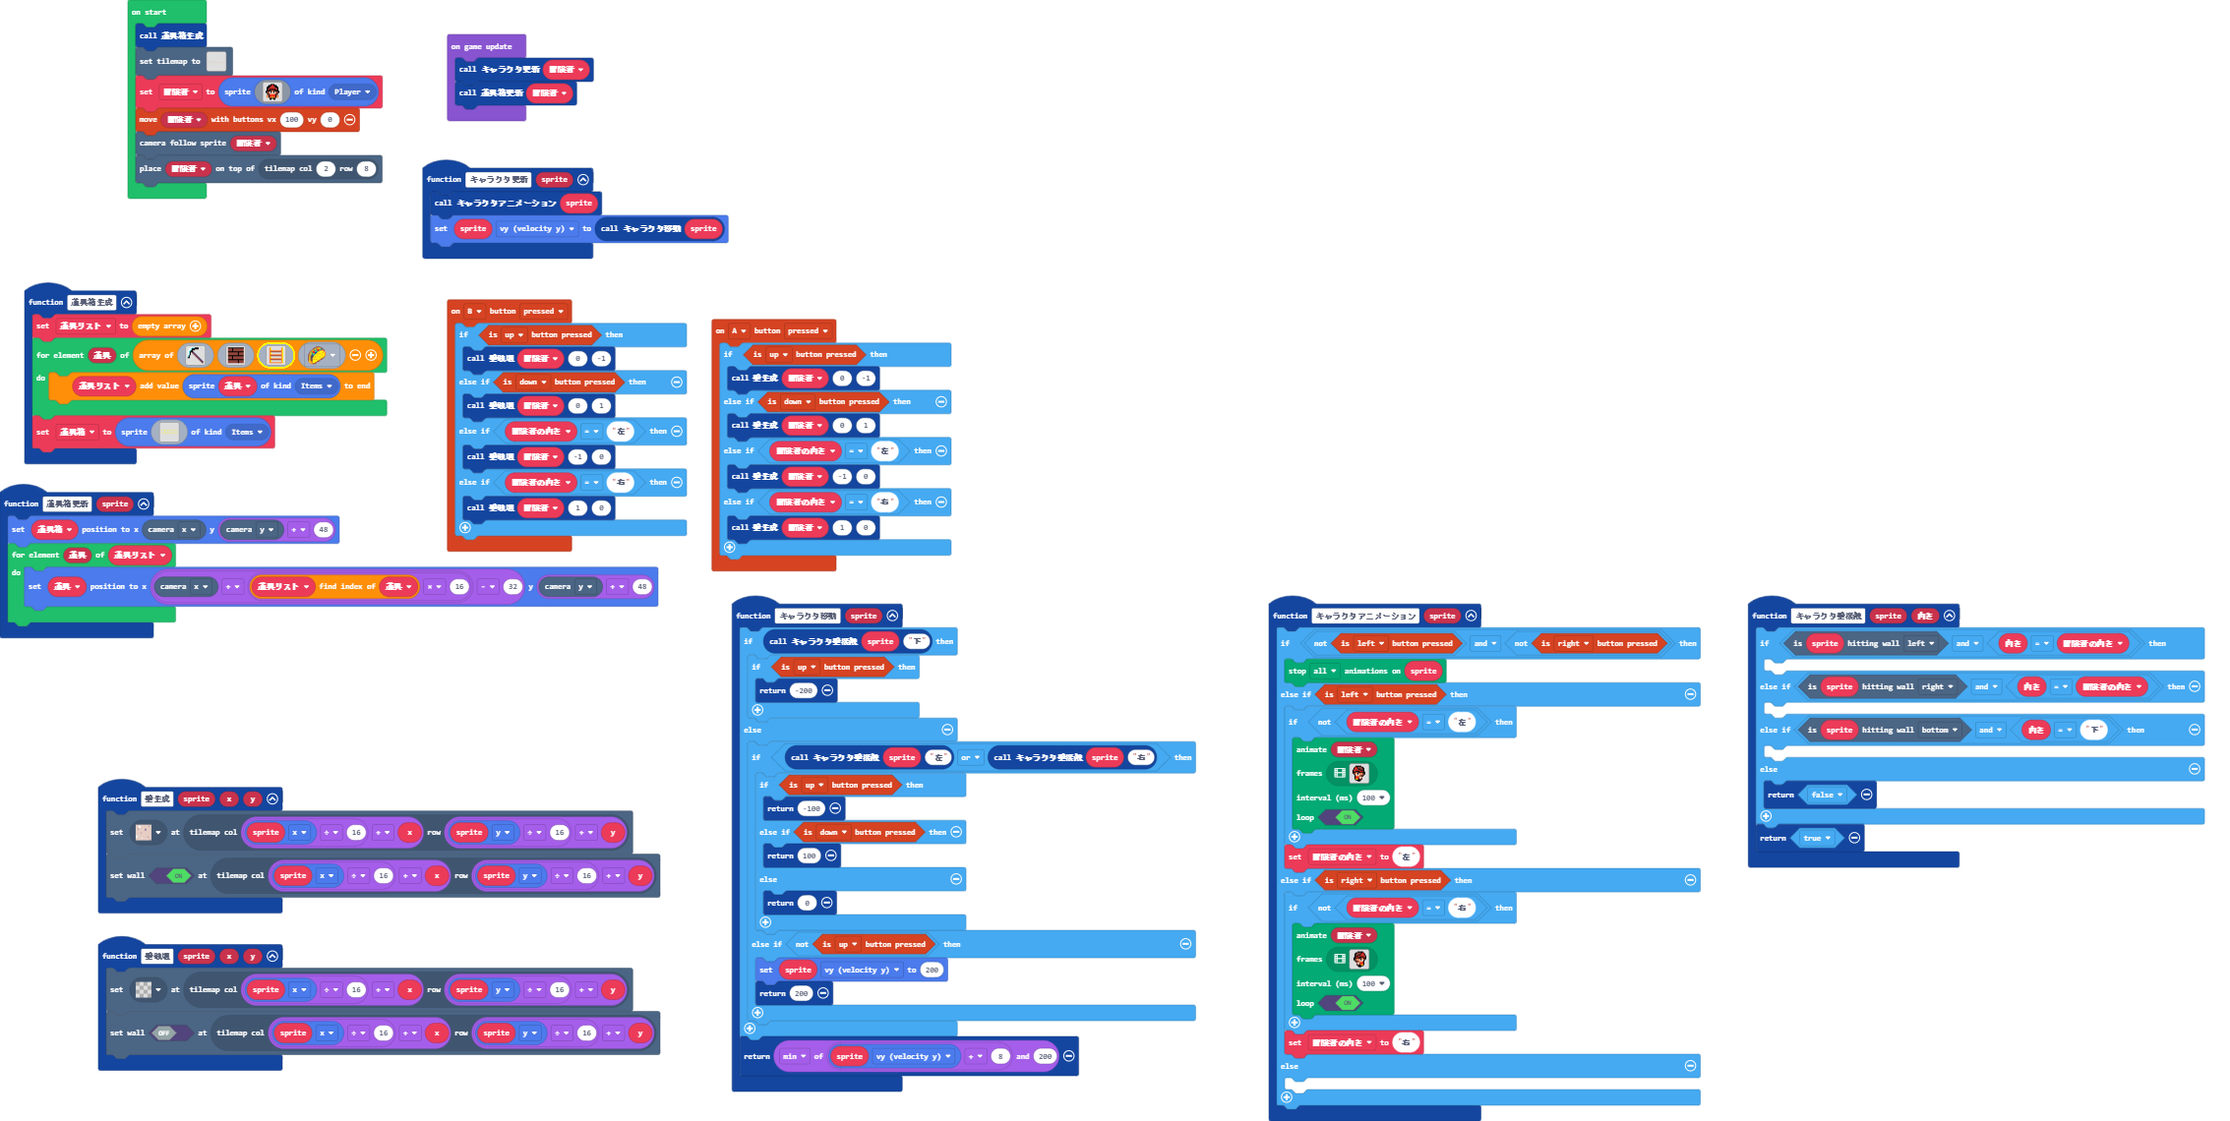
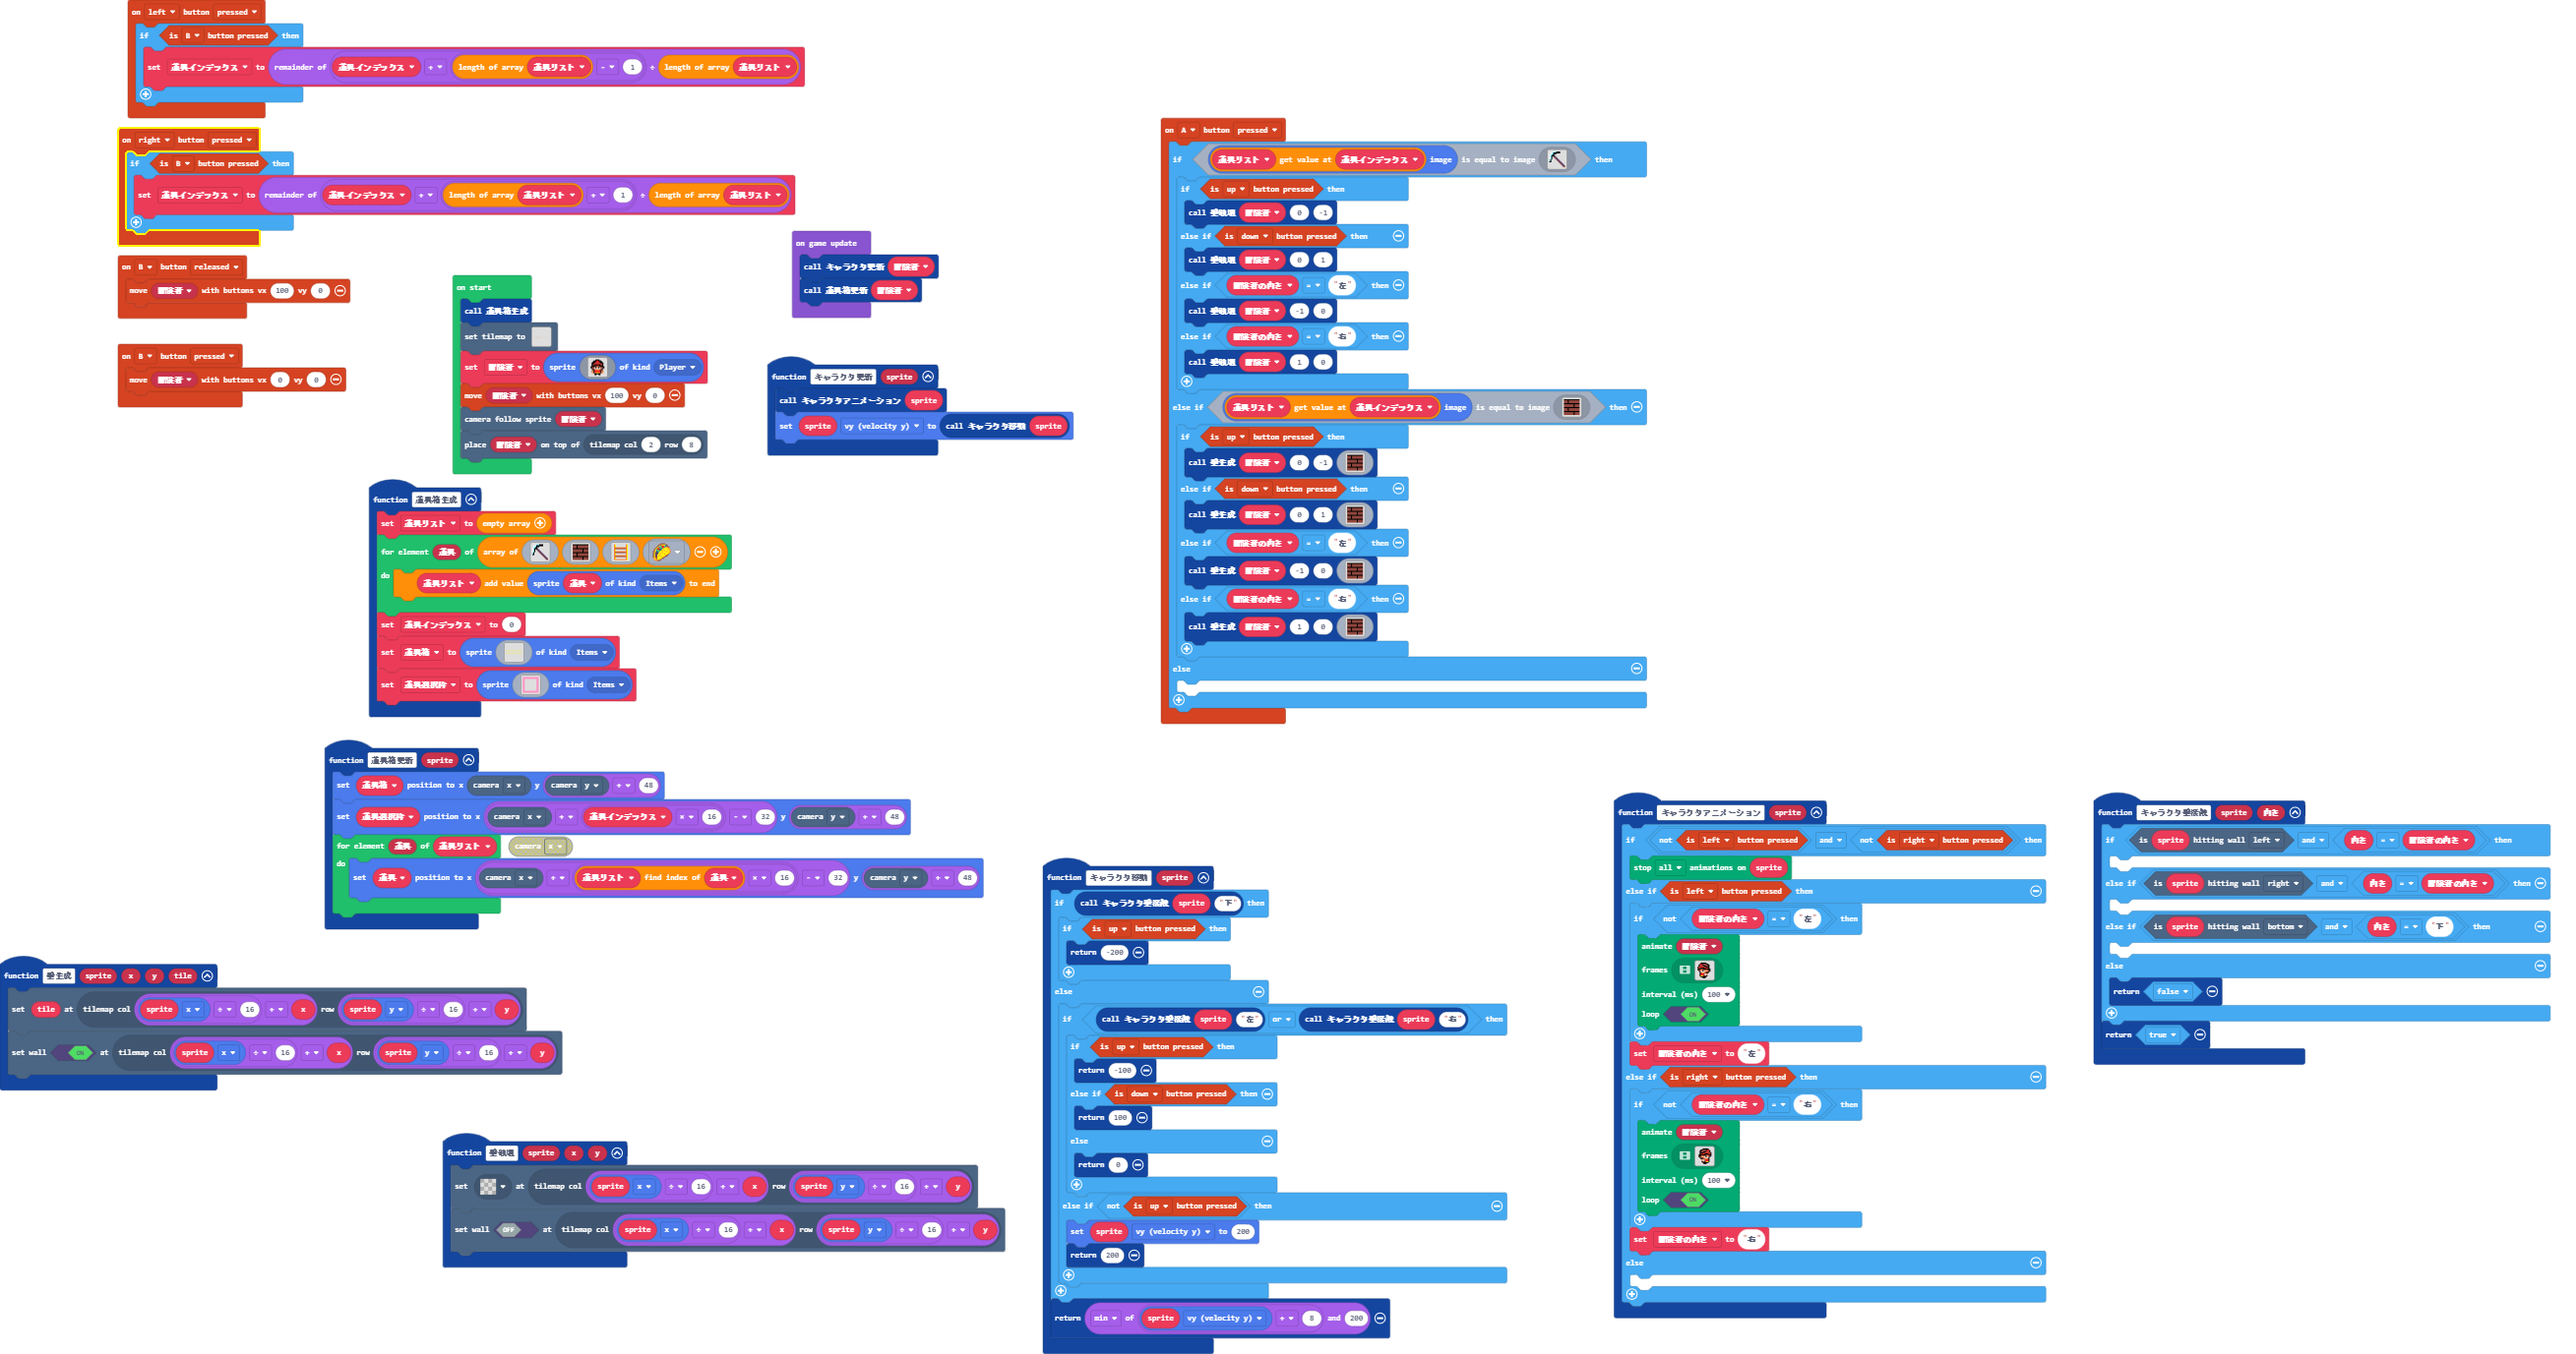
Update main.blocks, main.ts, tilemap.g.jres, tilemap.g.ts, images.g.jres, images.g.ts

diff --git a/main.ts b/main.ts
@@ -2,25 +2,36 @@ namespace SpriteKind {
     export const Items = SpriteKind.create()
 }
 controller.B.onEvent(ControllerButtonEvent.Pressed, function () {
-    if (controller.up.isPressed()) {
-        壁破壊(冒険者, 0, -1)
-    } else if (controller.down.isPressed()) {
-        壁破壊(冒険者, 0, 1)
-    } else if (冒険者の向き == "左") {
-        壁破壊(冒険者, -1, 0)
-    } else if (冒険者の向き == "右") {
-        壁破壊(冒険者, 1, 0)
-    }
+    controller.moveSprite(冒険者, 0, 0)
 })
 controller.A.onEvent(ControllerButtonEvent.Pressed, function () {
-    if (controller.up.isPressed()) {
-        壁生成(冒険者, 0, -1)
-    } else if (controller.down.isPressed()) {
-        壁生成(冒険者, 0, 1)
-    } else if (冒険者の向き == "左") {
-        壁生成(冒険者, -1, 0)
-    } else if (冒険者の向き == "右") {
-        壁生成(冒険者, 1, 0)
+    if (道具リスト[道具インデックス].image.equals(assets.image`ツルハシ`)) {
+        if (controller.up.isPressed()) {
+            壁破壊(冒険者, 0, -1)
+        } else if (controller.down.isPressed()) {
+            壁破壊(冒険者, 0, 1)
+        } else if (冒険者の向き == "左") {
+            壁破壊(冒険者, -1, 0)
+        } else if (冒険者の向き == "右") {
+            壁破壊(冒険者, 1, 0)
+        }
+    } else if (道具リスト[道具インデックス].image.equals(assets.image`レンガ`)) {
+        if (controller.up.isPressed()) {
+            壁生成(冒険者, 0, -1, assets.image`レンガ`)
+        } else if (controller.down.isPressed()) {
+            壁生成(冒険者, 0, 1, assets.image`レンガ`)
+        } else if (冒険者の向き == "左") {
+            壁生成(冒険者, -1, 0, assets.image`レンガ`)
+        } else if (冒険者の向き == "右") {
+            壁生成(冒険者, 1, 0, assets.image`レンガ`)
+        }
+    } else {
+    	
+    }
+})
+controller.left.onEvent(ControllerButtonEvent.Pressed, function () {
+    if (controller.B.isPressed()) {
+        道具インデックス = (道具インデックス + (道具リスト.length - 1)) % 道具リスト.length
     }
 })
 function 道具箱生成 () {
@@ -28,6 +39,7 @@ function 道具箱生成 () {
     for (let 道具 of [assets.image`ツルハシ`, assets.image`レンガ`, assets.image`ハシゴ`, sprites.food.smallTaco]) {
         道具リスト.push(sprites.create(道具, SpriteKind.Items))
     }
+    道具インデックス = 0
     道具箱 = sprites.create(img`
         55555555555555555555555555555555555555555555555555555555555555555555555555555555
         5...............5...............5...............5...............5..............5
@@ -46,21 +58,48 @@ function 道具箱生成 () {
         5...............5...............5...............5...............5..............5
         55555555555555555555555555555555555555555555555555555555555555555555555555555555
         `, SpriteKind.Items)
+    道具選択枠 = sprites.create(img`
+        3 3 3 3 3 3 3 3 3 3 3 3 3 3 3 3 
+        3 3 3 3 3 3 3 3 3 3 3 3 3 3 3 3 
+        3 3 . . . . . . . . . . . . 3 3 
+        3 3 . . . . . . . . . . . . 3 3 
+        3 3 . . . . . . . . . . . . 3 3 
+        3 3 . . . . . . . . . . . . 3 3 
+        3 3 . . . . . . . . . . . . 3 3 
+        3 3 . . . . . . . . . . . . 3 3 
+        3 3 . . . . . . . . . . . . 3 3 
+        3 3 . . . . . . . . . . . . 3 3 
+        3 3 . . . . . . . . . . . . 3 3 
+        3 3 . . . . . . . . . . . . 3 3 
+        3 3 . . . . . . . . . . . . 3 3 
+        3 3 . . . . . . . . . . . . 3 3 
+        3 3 3 3 3 3 3 3 3 3 3 3 3 3 3 3 
+        3 3 3 3 3 3 3 3 3 3 3 3 3 3 3 3 
+        `, SpriteKind.Items)
 }
 function キャラクタ更新 (sprite: Sprite) {
     キャラクタアニメーション(sprite)
     sprite.vy = キャラクタ移動(sprite)
 }
+controller.right.onEvent(ControllerButtonEvent.Pressed, function () {
+    if (controller.B.isPressed()) {
+        道具インデックス = (道具インデックス + (道具リスト.length + 1)) % 道具リスト.length
+    }
+})
 function 壁破壊 (sprite: Sprite, x: number, y: number) {
     tiles.setTileAt(tiles.getTileLocation(sprite.x / 16 + x, sprite.y / 16 + y), assets.tile`transparency16`)
     tiles.setWallAt(tiles.getTileLocation(sprite.x / 16 + x, sprite.y / 16 + y), false)
 }
-function 壁生成 (sprite: Sprite, x: number, y: number) {
-    tiles.setTileAt(tiles.getTileLocation(sprite.x / 16 + x, sprite.y / 16 + y), sprites.castle.tilePath5)
+function 壁生成 (sprite: Sprite, x: number, y: number, tile: Image) {
+    tiles.setTileAt(tiles.getTileLocation(sprite.x / 16 + x, sprite.y / 16 + y), tile)
     tiles.setWallAt(tiles.getTileLocation(sprite.x / 16 + x, sprite.y / 16 + y), true)
 }
+controller.B.onEvent(ControllerButtonEvent.Released, function () {
+    controller.moveSprite(冒険者, 100, 0)
+})
 function 道具箱更新 (sprite: Sprite) {
     道具箱.setPosition(scene.cameraProperty(CameraProperty.X), scene.cameraProperty(CameraProperty.Y) + 48)
+    道具選択枠.setPosition(scene.cameraProperty(CameraProperty.X) + 道具インデックス * 16 - 32, scene.cameraProperty(CameraProperty.Y) + 48)
     for (let 道具 of 道具リスト) {
         道具.setPosition(scene.cameraProperty(CameraProperty.X) + 道具リスト.indexOf(道具) * 16 - 32, scene.cameraProperty(CameraProperty.Y) + 48)
     }
@@ -261,9 +300,11 @@ function キャラクタ壁接触 (sprite: Sprite, 向き: string) {
     }
     return true
 }
+let 道具選択枠: Sprite = null
 let 道具箱: Sprite = null
-let 道具リスト: Sprite[] = []
 let 冒険者の向き = ""
+let 道具インデックス = 0
+let 道具リスト: Sprite[] = []
 let 冒険者: Sprite = null
 道具箱生成()
 tiles.setTilemap(tilemap`level1`)

diff --git a/images.g.ts b/images.g.ts
@@ -96,6 +96,24 @@ e e e e e e e e e e f e e e e e
 . 4 5 . . . . . . . . . . 4 5 . 
 . 4 4 4 4 4 4 4 4 4 4 4 4 4 5 . 
 `;
+            case "image4":return img`
+3 3 3 3 3 3 3 3 3 3 3 3 3 3 3 3 
+3 3 3 3 3 3 3 3 3 3 3 3 3 3 3 3 
+3 3 . . . . . . . . . . . . 3 3 
+3 3 . . . . . . . . . . . . 3 3 
+3 3 . . . . . . . . . . . . 3 3 
+3 3 . . . . . . . . . . . . 3 3 
+3 3 . . . . . . . . . . . . 3 3 
+3 3 . . . . . . . . . . . . 3 3 
+3 3 . . . . . . . . . . . . 3 3 
+3 3 . . . . . . . . . . . . 3 3 
+3 3 . . . . . . . . . . . . 3 3 
+3 3 . . . . . . . . . . . . 3 3 
+3 3 . . . . . . . . . . . . 3 3 
+3 3 . . . . . . . . . . . . 3 3 
+3 3 3 3 3 3 3 3 3 3 3 3 3 3 3 3 
+3 3 3 3 3 3 3 3 3 3 3 3 3 3 3 3 
+`;
         }
         return null;
     })

diff --git a/tilemap.g.ts b/tilemap.g.ts
@@ -2,6 +2,8 @@
 namespace myTiles {
     //% fixedInstance jres blockIdentity=images._tile
     export const transparency16 = image.ofBuffer(hex``);
+    //% fixedInstance jres blockIdentity=images._tile
+    export const tile1 = image.ofBuffer(hex``);
 
     helpers._registerFactory("tilemap", function(name: string) {
         switch(helpers.stringTrim(name)) {
@@ -31,6 +33,8 @@ namespace myTiles {
     helpers._registerFactory("tile", function(name: string) {
         switch(helpers.stringTrim(name)) {
             case "transparency16":return transparency16;
+            case "壁タイル":
+            case "tile1":return tile1;
         }
         return null;
     })
